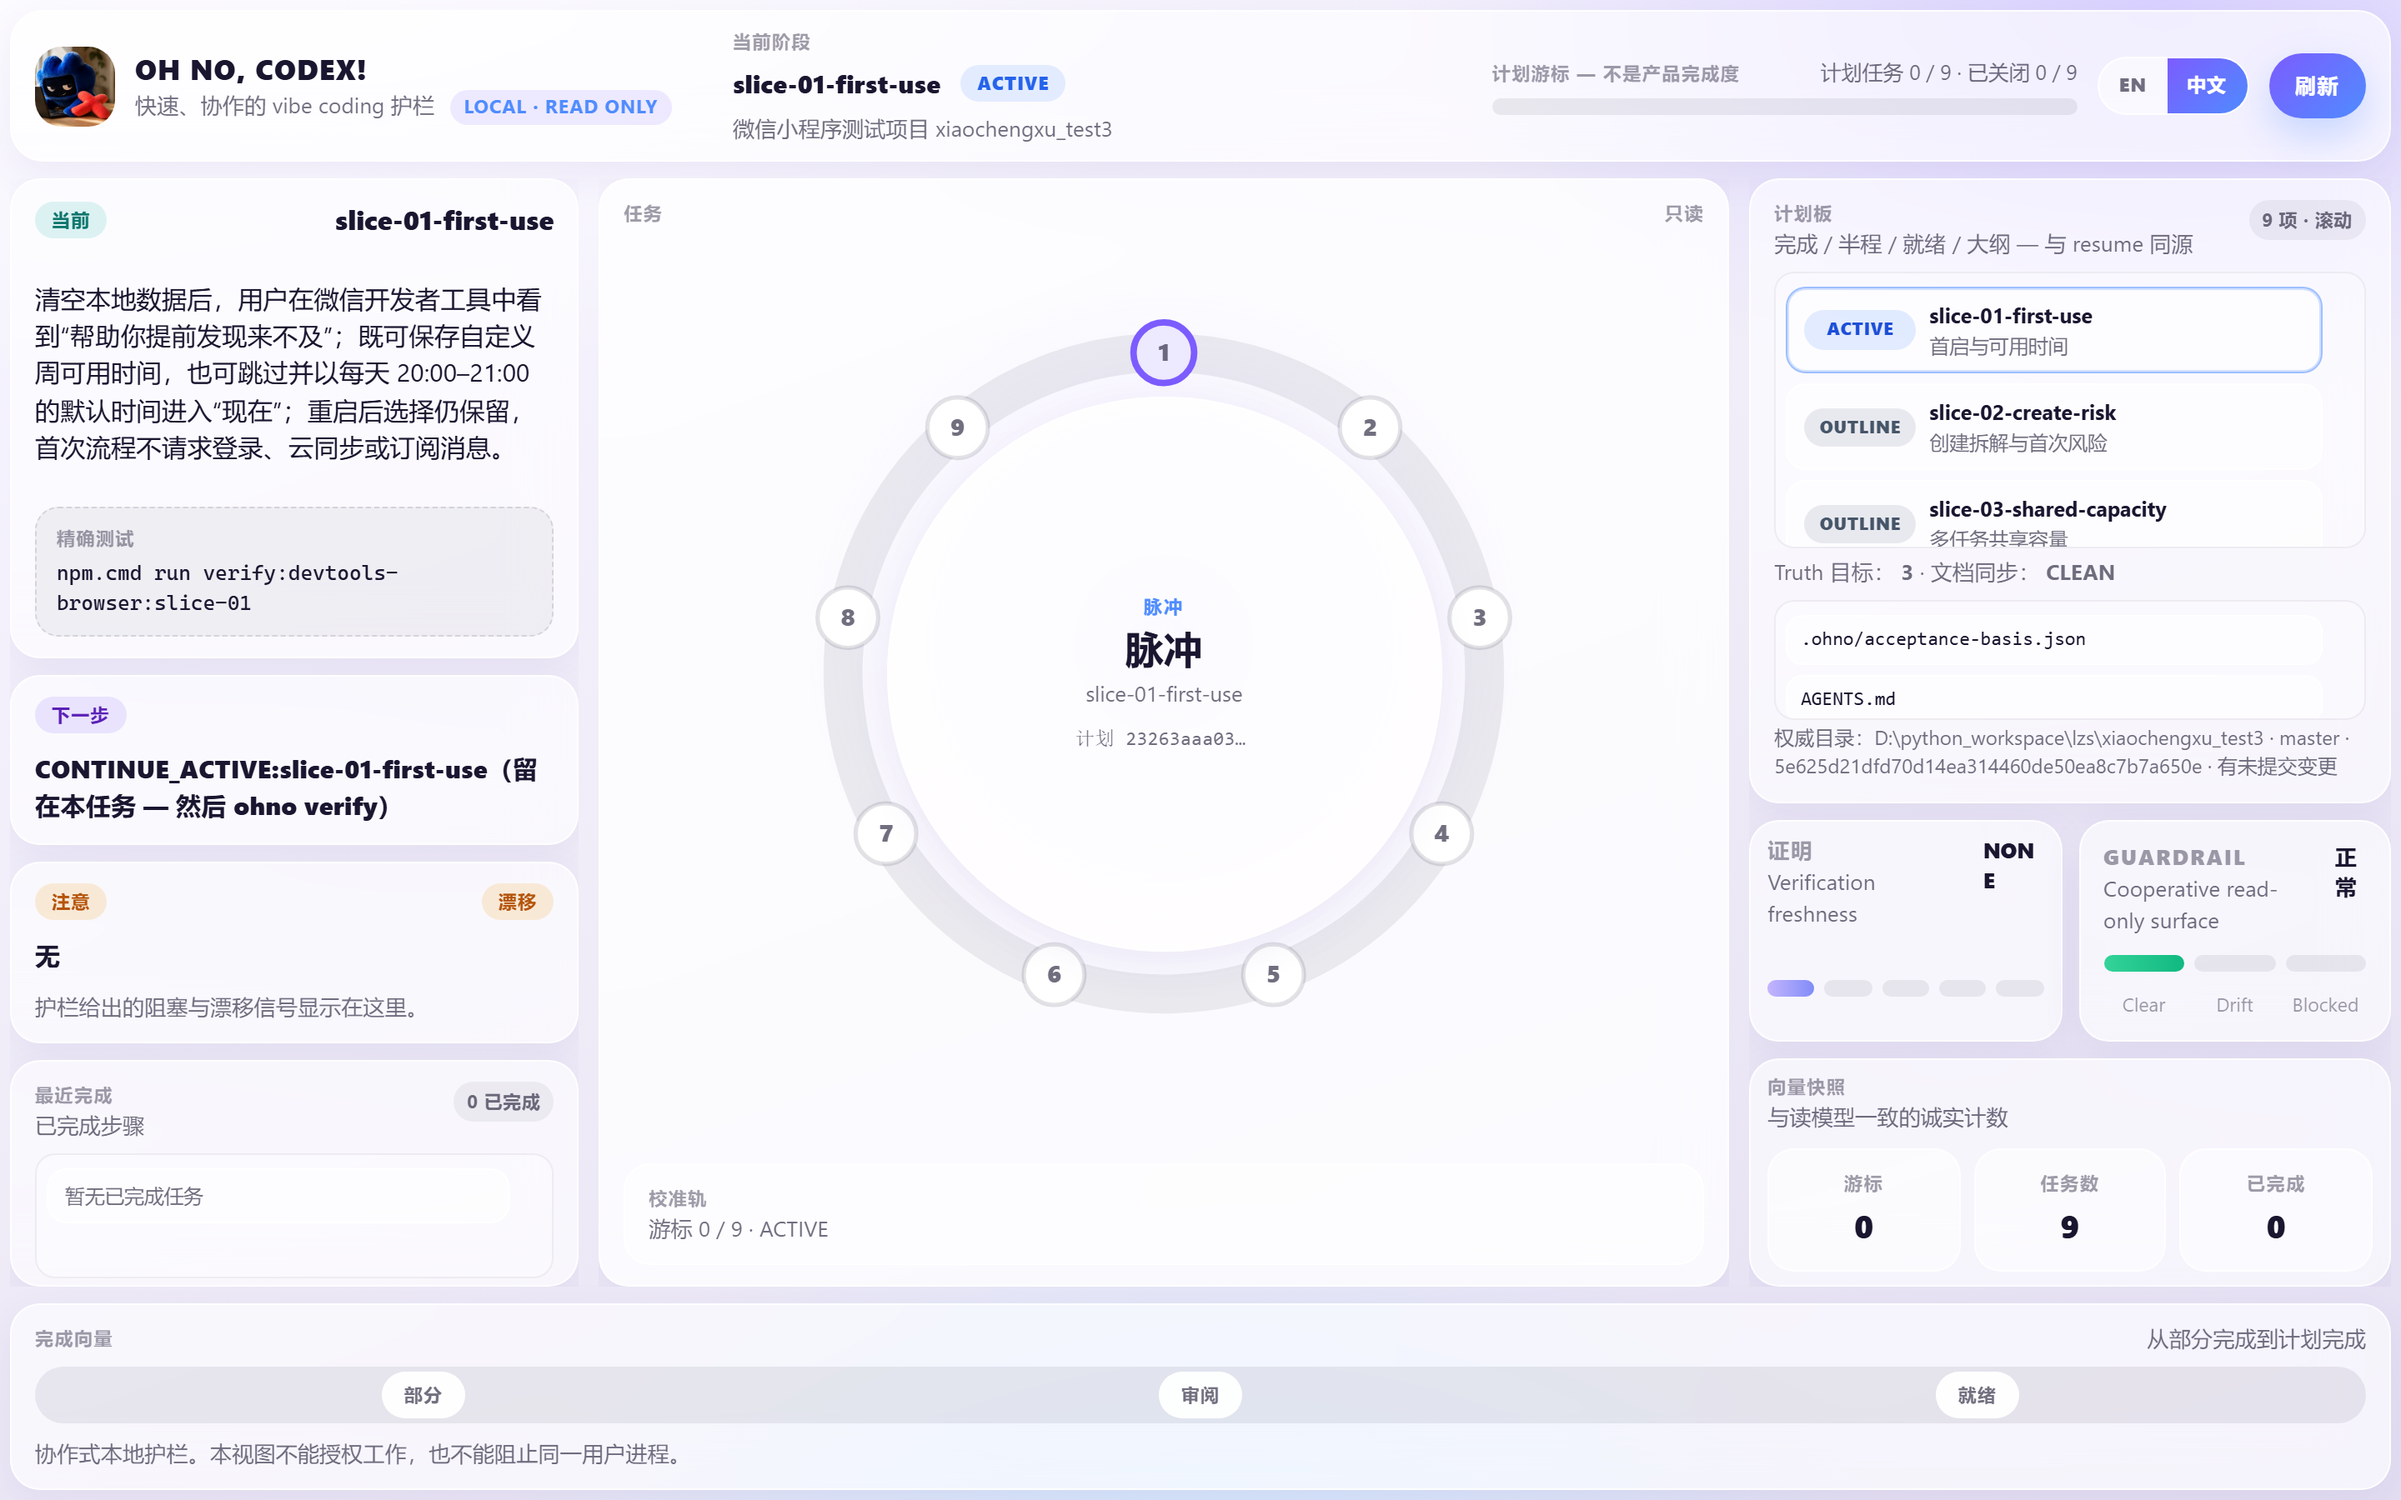
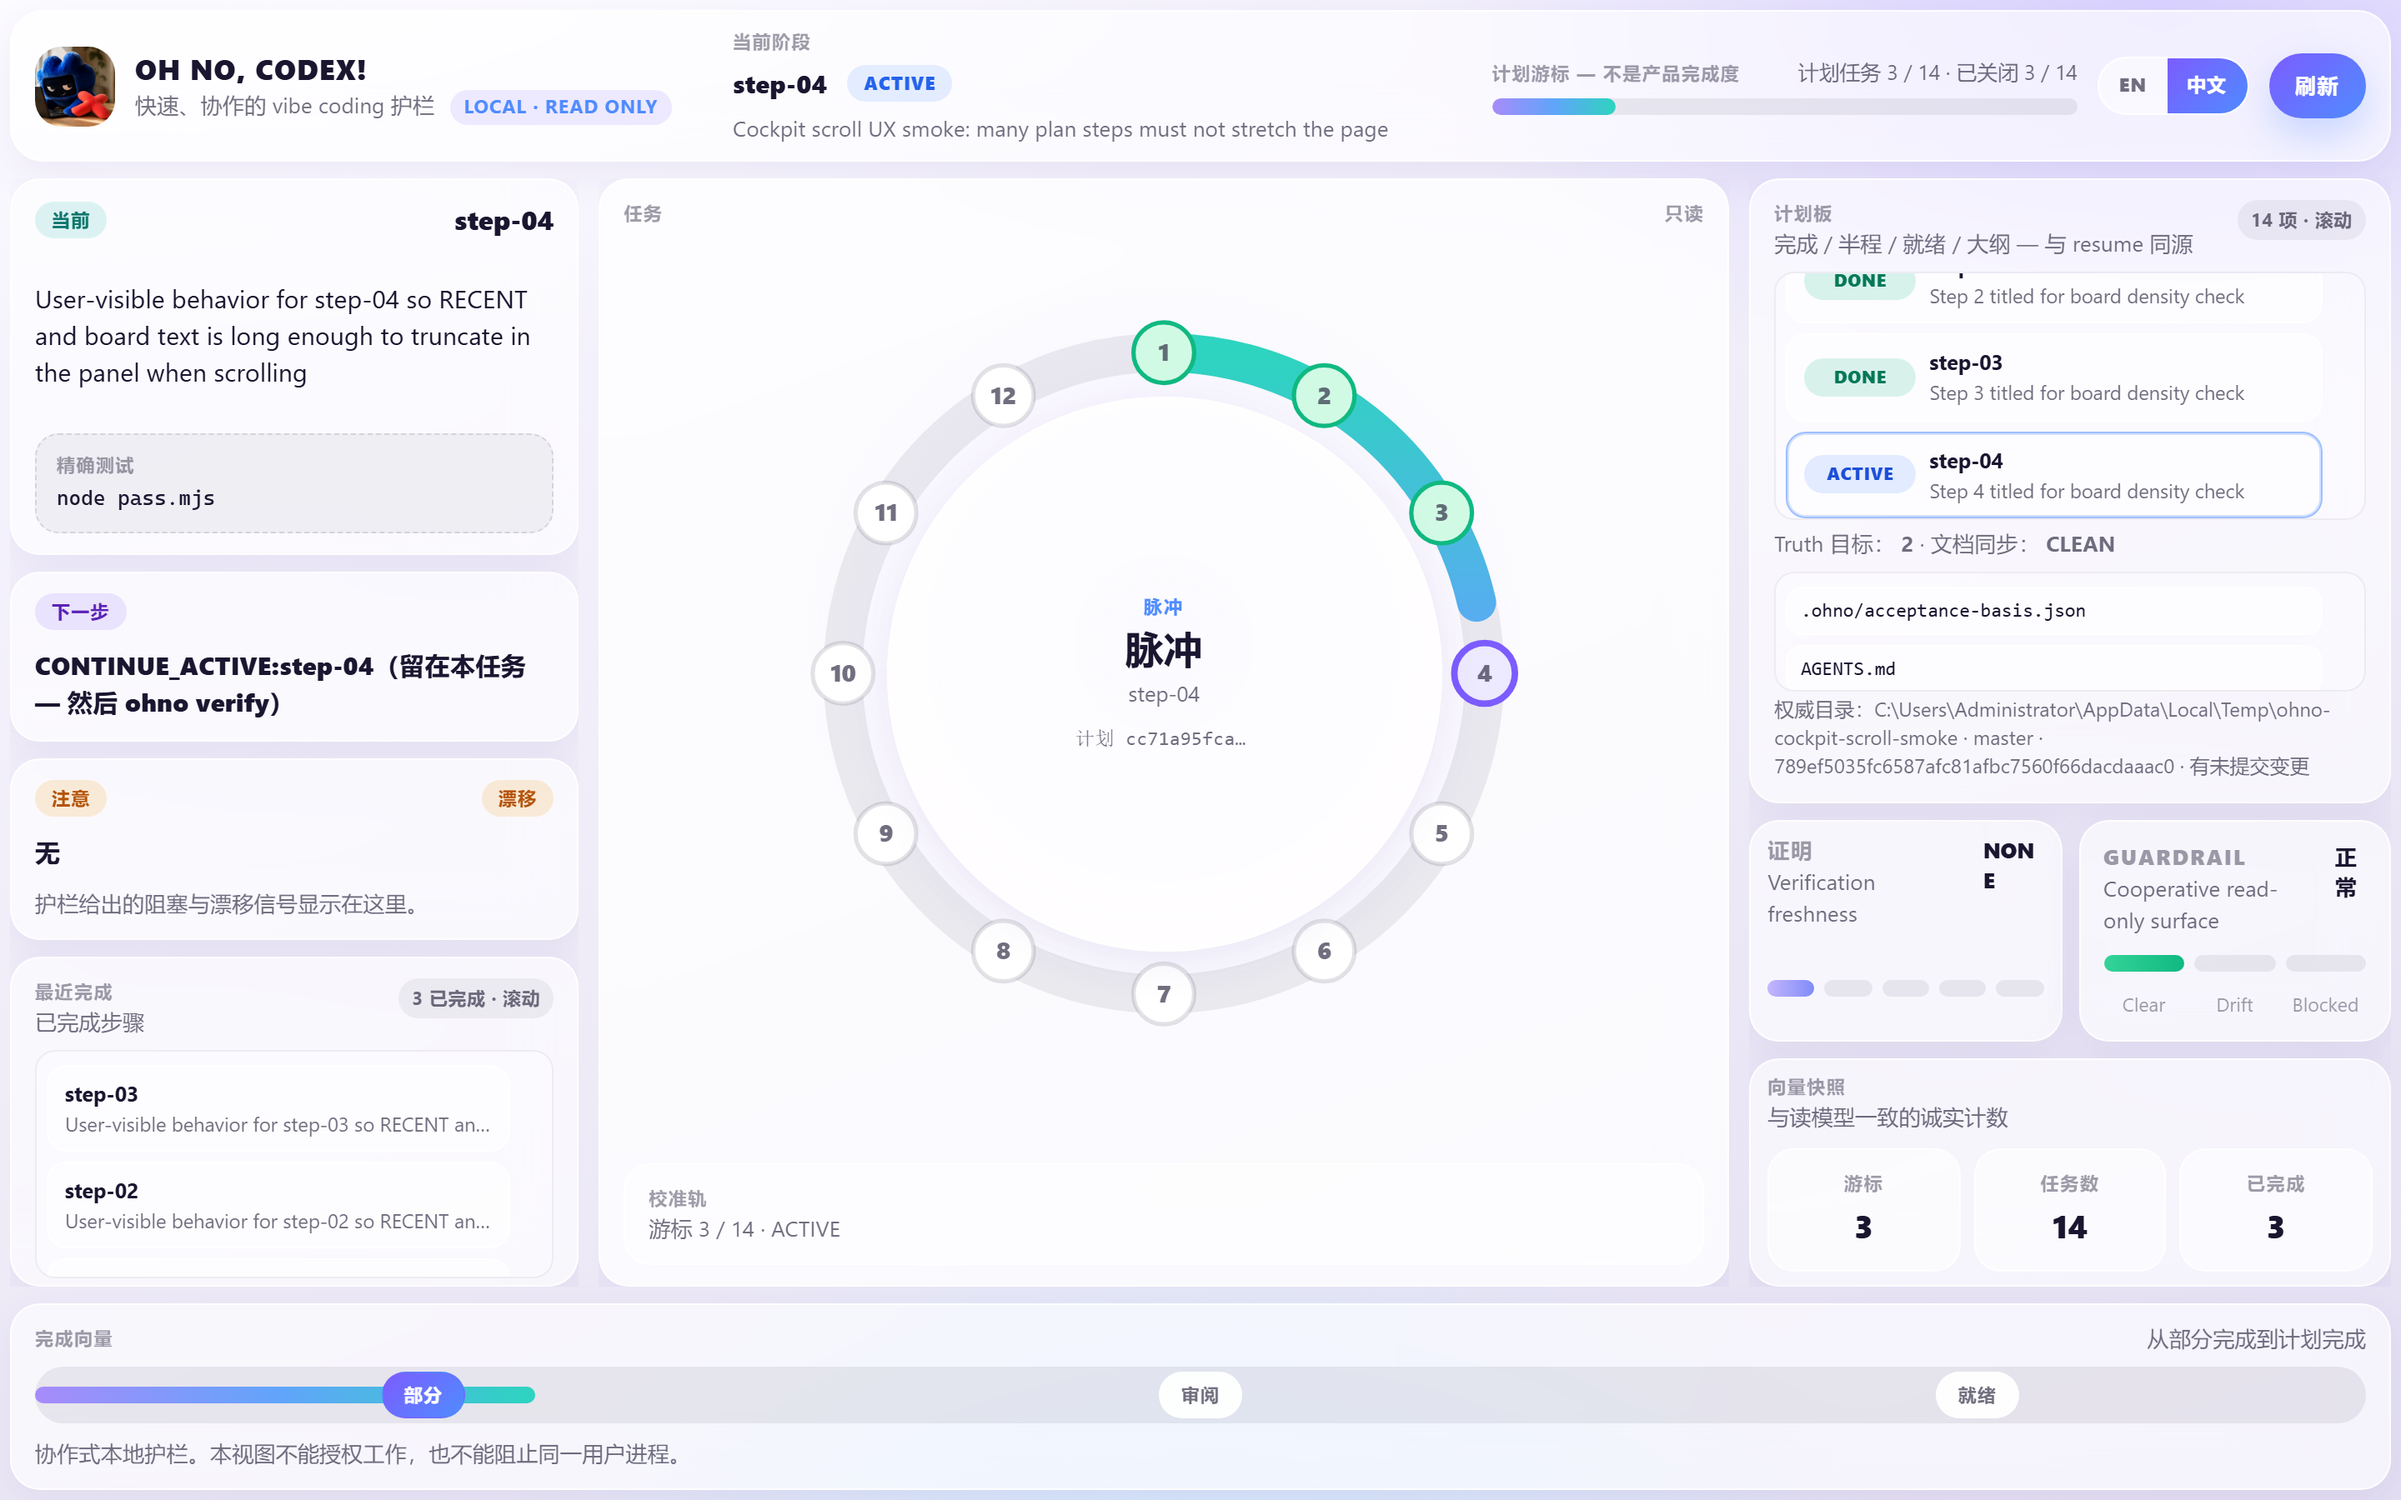
docs: use cockpit layout-demo screenshot (14-step scroll smoke)
Replace the trial-project capture with the disposable ohno-cockpit-scroll-smoke board used when tuning plan-board scroll and progress fields (cursor 3/14, ACTIVE step-04). Caption clarifies plan cursor is not product completion.

diff --git a/README.md b/README.md
@@ -279,7 +279,7 @@ Read-only local board. Same payload as `ohno status --json`. Never mutates plan/
 </p>
 
 <p align="center">
-  <sub>Live capture from a real local project under harness control (not a mock). Values are projections of <code>.ohno/state.json</code>.</sub>
+  <sub>Layout demo from the disposable scroll-smoke project (14-step plan, cursor 3/14, ACTIVE mid-board — not product completion %). Values are projections of <code>.ohno/state.json</code>.</sub>
 </p>
 
 ```bash
